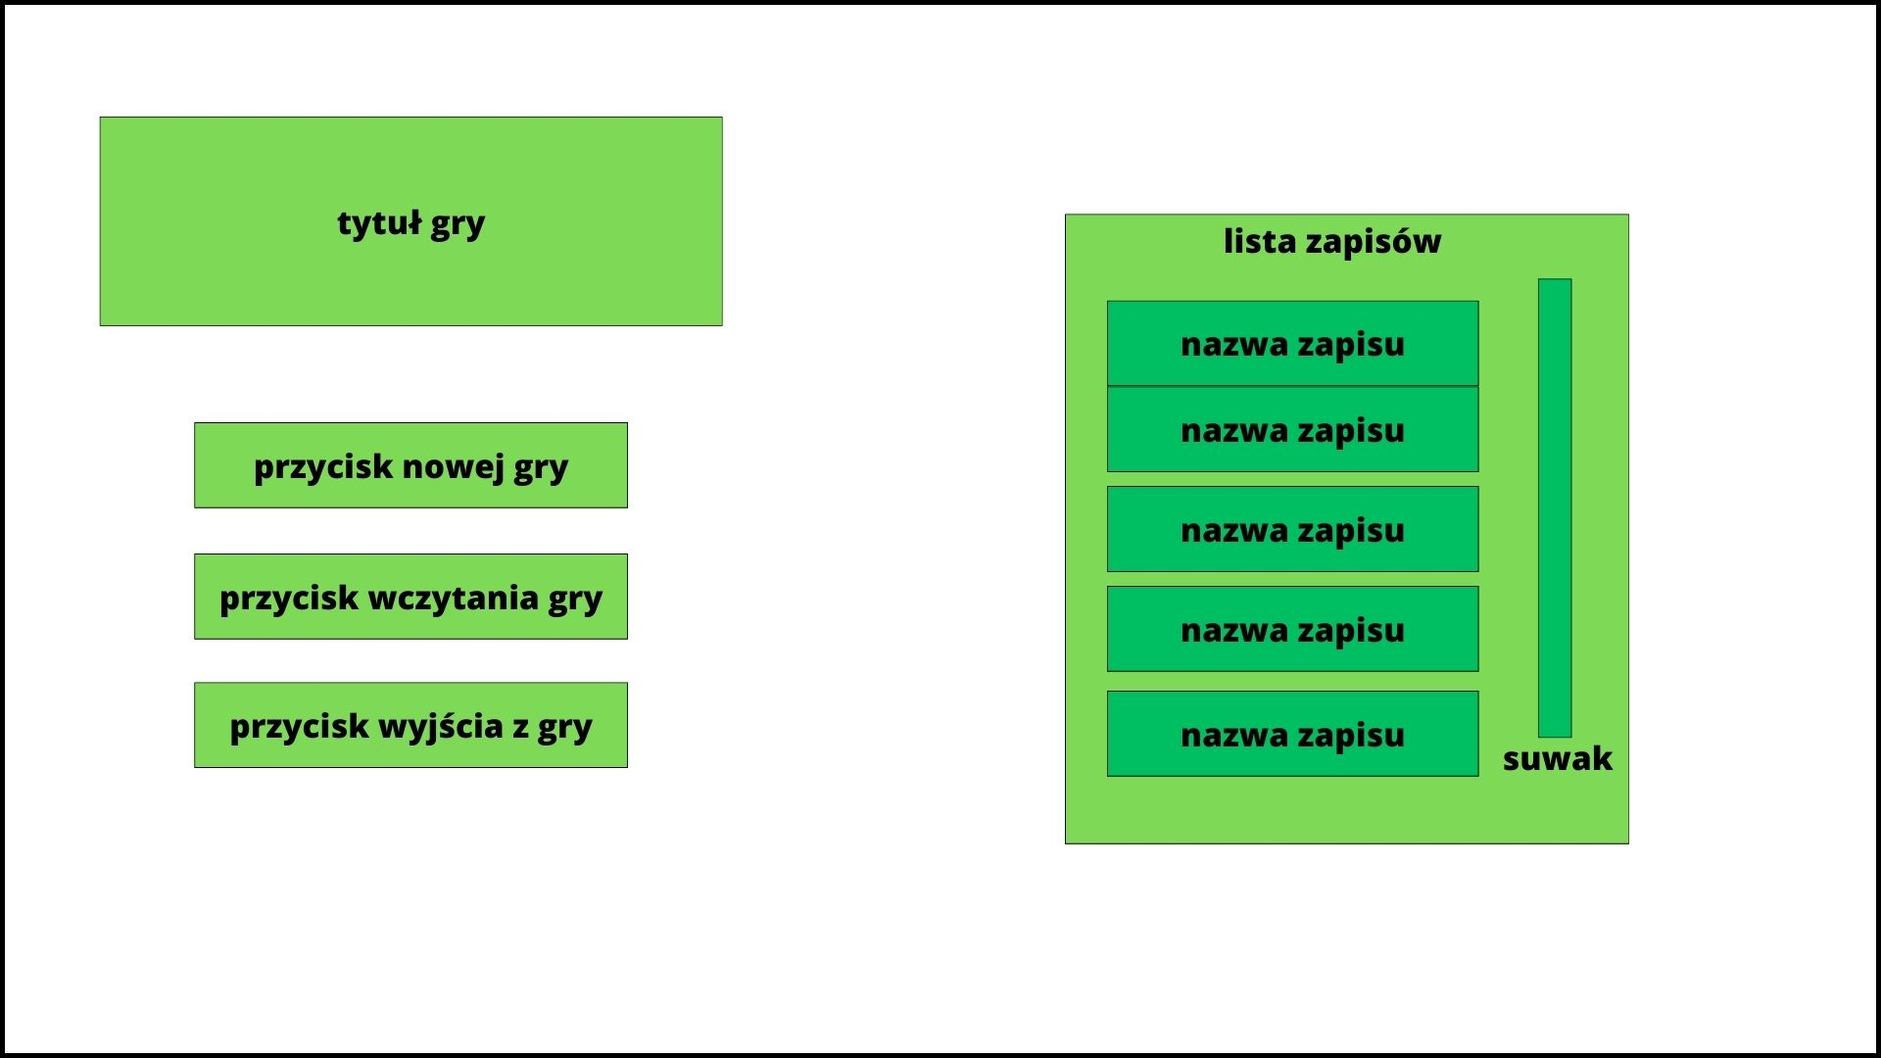
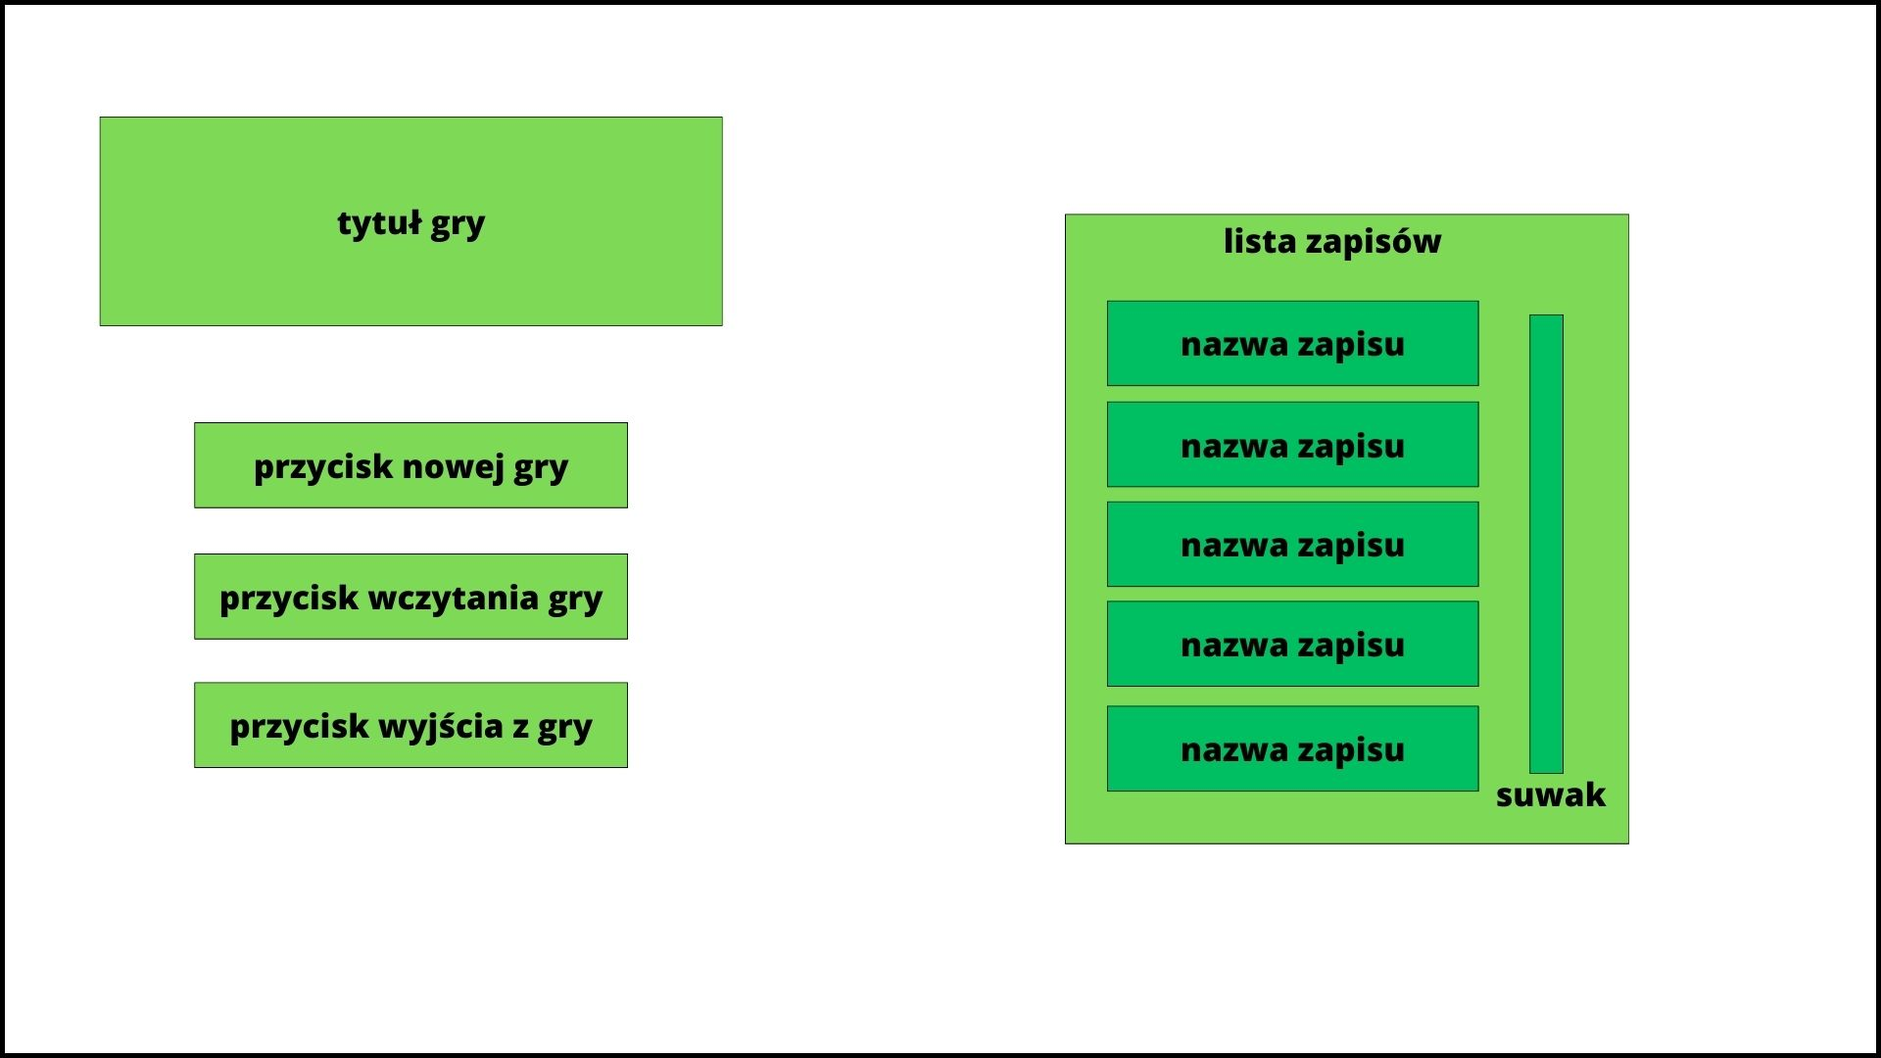
menu

Changed region(s): [[0.5625, 0.2444, 0.875, 0.7639]]

diff --git a/docs/chapters/projekt/ui_proj.tex b/docs/chapters/projekt/ui_proj.tex
@@ -1,6 +1,6 @@
 \section{Interfejs użytkownika (Zofia Sosińska)}\label{chap:ui}
 Projekt interfejsu użytkownika przewiduje tryb podstawowy z zawsze widocznymi elementami oraz dynamicznie pojawiające okna, wywoływane za pomocą konkretnych klawiszy. 
- Zadaniem każdej składowej nich będzie odzwierciedlenie pewnego skrawka aktualnego stanu wiedzy granej postaci z naciskiem na najpotrzebniejsze w danej chwili informacje. Przewidziane są:
+ Zadaniem każdej składowej będzie odzwierciedlenie pewnego skrawka aktualnego stanu wiedzy granej postaci z naciskiem na najpotrzebniejsze w danej chwili informacje. Przewidziane są:
  \begin{itemize}
     \item menu stawiania budynków; 
     \item menu wydawania komend;
@@ -14,15 +14,15 @@ Projekt interfejsu użytkownika przewiduje tryb podstawowy z zawsze widocznymi e
 Interfejs podstawowy przewiduje funkcje, takie jak pokazanie:
 \begin{itemize}
     \item aktualnego czasu w grze, aby stworzyć iluzję upływającego czasu w świecie gry; 
-    \item surowców i funduszy, aby nie był obarczony kalkulacjami przy każdym zakupie lub przypływie zasobów
+    \item surowców i funduszy, aby użytkownik nie był obarczony kalkulacjami przy każdym zakupie lub przypływie zasobów;
     \item kompasu, aby ułatwić nawigację;
     \item stan zdrowia gracza, aby zasygnalizować mu, czy przypadkiem nie rozsądniejsze będzie wycofanie się z potyczki;
     \item etap, na którym są przypisane graczowi zadania, aby przypomnieć mu, że na takowe się zgodził.
 \end{itemize}
-Inspiracją dla górnego paska z informacjami jest ten użyty w grze Warcraft 3 (por.\ref{c:pasek_war3}). Prostota i surowość stylu będą współgrać z klimatem gry.
+Inspiracją dla górnego paska z informacjami jest ten użyty w grze Warcraft 3 (por. \ref{c:pasek_war3}). Prostota i surowość stylu będą współgrać z klimatem gry.
 
 W naszej grze skupimy się jednak na tym, aby interfejs użytkownika zabierał jak najmniej miejsca. Dlatego też projekt zakłada, że poszczególne obiekty nie będą ze sobą połączone, a jedynie “dryfować” w przestrzeni.
-Jako ważny element tej części UI zawarty zostanie kompas, wzorowany na tym z gry The Elder Scrolls V: Skyrim (por.\ref{chap:skrm}).
+Jako ważny element tej części UI zawarty zostanie kompas, wzorowany na tym z gry The Elder Scrolls V: Skyrim (por. \ref{chap:skrm}).
 \begin{figure}[htbp]
     \centering
     \includegraphics[width=0.9\textwidth]{images/ui/ui_proj_ogolne.jpg}
@@ -31,8 +31,9 @@ Jako ważny element tej części UI zawarty zostanie kompas, wzorowany na tym z 
 \end{figure}
  
 \subsection{Menu stawiania budynków}
- W menu stawiania budynków informacje wcześniej przedstawione zostaną na ekranie. Dodatkowo pokażą nam się dostępne do zbudowania budynki, a po wybraniu pojawią się przed nami. Po zatwierdzeniu budynek zostanie wybudowany.
-	Inspiracją do przedstawienia dostępnych budowli jest rozwiązanie gry Orcs must die! (por. \ref{chap:omd}).
+Menu stawiania budynków będzie obrazować wiedzę i spostrzeżenia głównej postaci przy budowaniu nowej budowli. Docelowym miejscem ukazania się informacji będzie 
+dół ekranu, aby interfejs nie zasłaniał użytkownikowi zbyt dużo przestrzeni. Graczowi ukaże się lista dostępnych budynków oraz odpowiednie komunikaty w wypadku, gdy 
+nie można będzie dokonać zakupu, czy postawienia. Inspiracją do przedstawienia tych informacji zostanie rozwiązanie gry Orcs must die! (por. \ref{chap:omd}).
 \begin{figure}[htbp]
     \centering
     \includegraphics[width=0.9\textwidth]{images/ui/ui_proj_budowanie.jpg}
@@ -41,8 +42,10 @@ Jako ważny element tej części UI zawarty zostanie kompas, wzorowany na tym z 
 \end{figure}
 
 \subsection{Menu wydawania komend}
-Po zdobyciu towarzyszów walki kluczowe jest udostępnienie mechaniki sterowania nimi. Będzie to zrealizowane za pomocą menu wydawania komend.
-Projekt przewiduje zrobić to za pomocą wyświtlenia listy dostępnych komend i klawiszy, po których naciśnięciu zostanie konkretna wybrana.
+Po zdobyciu towarzyszy walki kluczowe będzie udostępnienie mechaniki sterowania nimi. Zrealizowane to zostanie za pomocą menu wydawania komend.
+Projekt przewiduje wyświetlić listę dostępnych komend i klawiszy, po których naciśnięciu, konkretna opcja zostanie wybrana. 
+Źródłem pomysłu jest interfejs zaprojektowany w grze Mount\&Blade (por. \ref{chap:mb}).
+
 \begin{figure}[htbp]
     \centering
     \includegraphics[width=0.9\textwidth]{images/ui/ui_proj_walka.jpg}
@@ -51,7 +54,7 @@ Projekt przewiduje zrobić to za pomocą wyświtlenia listy dostępnych komend i
 
 \subsection{Menu zapisu}
 Aby umożliwić zapis gry przygotowane zostanie specjalne dla tego zadania menu, wyświetlane na środku ekranu. Najważniejszą informacją 
-wyświetlaną na nim będzie nazwa pliku, aby gracz mógł później go odnaleźć.
+umiejscowioną na nim będzie nazwa pliku, aby gracz mógł później go odnaleźć.
 \begin{figure}[htbp]
     \centering
     \includegraphics[width=0.9\textwidth]{images/ui/ui_proj_zapis.jpg}
@@ -59,7 +62,11 @@ wyświetlaną na nim będzie nazwa pliku, aby gracz mógł później go odnaleź
 \end{figure}
 
 \subsection{Informacja o możliwej interakcji}
-W programie przewidziane są postacie i przedmioty interaktywne. Aby 
+W programie przewidziane są postacie i przedmioty interaktywne. Aby zasygnalizowć mu zaistniałą możliwość podjęcia pewnej akcji, 
+gra powinna mu wyświetlić stosowny komunikat. Wybranie wysoce widocznego miejsca będzie istotne, ponieważ grafika zniknie,
+jak tylko interakcja przestanie być możliwa. Tudzież kluczowe będzie wybranie takiej lokalizacji, aby komunikat zwrócił uwagę gracza nawet, 
+jeśli wyświetlony będzie tylko przez krótką chwilę. Za najwłaściwsze umiejscowienie wybrano środek górnej części ekranu, zaraz
+ pod bazowym interfejsem.
     \begin{figure}[htbp]
     \centering
     \includegraphics[width=0.9\textwidth]{images/ui/ui_prooj_interakcja.jpg}
@@ -67,7 +74,10 @@ W programie przewidziane są postacie i przedmioty interaktywne. Aby
 \end{figure}
 
 \subsection{Dziennik z zadaniami}
-
+Projektanci systemu zakładają, że niektóre postacie interaktywne będą mogły zlecić graczowi zadanie. Jeśli użytkownik zgodzi się na wiele,
+kłopotliwe może stać się zapamiętanie wszystkich szczegółów. Dlatego projekt systemu przewiduje udostępnienie mechaniki dziennika, w którym 
+pojawią się informacje o rozpoczętych zadaniach. Na przygotowanej grafice każde z nich będzie miało własne okno ze streszczeniem. Użytkownik 
+będzie mógł je przeglądać posługując się suwakiem.
 \begin{figure}[htbp]
     \centering
     \includegraphics[width=0.9\textwidth]{images/ui/ui_proj_dziennik_zadan.jpg}
@@ -75,9 +85,11 @@ W programie przewidziane są postacie i przedmioty interaktywne. Aby
 \end{figure}
 
 \subsection{Ekran końca gry}
-
+Gracz, po wykonaniu pewnych kroków, może doprowadzić grę do stanu końcowego. W takim wypadku przewidziane jest wyraźne tego zasygnalizowanie przez program.
+Przewiduje się zaprojektowanie specjalnego ekranu końca gry. W tym celu użytkownikowi zostanie wyświetlona klarowna informacja o aktualnym stanie rzeczy oraz instrukcja,
+co zrobić dalej. Dodatkowo, aby wzmocnić przekaz, cały ekran zostanie ściemniony.
 \begin{figure}[htbp]
     \centering
     \includegraphics[width=0.9\textwidth]{images/ui/ui_prooj_koniec_gry.jpg}
-    \caption{Projekt menu zapisu.}\label{fig:end_sc}
+    \caption{Projekt ekranu końca gry.}\label{fig:end_sc}
 \end{figure}

diff --git a/docs/chapters/implementacja/ui_imp.tex b/docs/chapters/implementacja/ui_imp.tex
@@ -1,7 +1,7 @@
 \section{Interfejs Użytkownika (Zofia Sosińska)}\label{chap:ui_imp}
 Interfejs użytkownika, jako uporządkowany i przejrzysty obraz wiedzy i możliwych opcji granej postaci odciąża użytkownika
 aplikacji, zdejmując z niego przymus pamiętania dokładnie każdej pojawiającej się informacji. Umililiśmy i uprościliśmy 
-rozgrywkę, przedstawiając suche dane w postaci przyjemnych dla oka obrazów, wyszczególniając najważniejsze informacje.
+rozgrywkę, przedstawiając suche dane w postaci przyjemnych dla oka obrazów, wyszczególniając to, co jest najważniejsze.
 
 Tak jak przewidywano, UI udostępnia interfes podstawowy z zawsze widocznymi elementami oraz dynamicznie pojawiające okna, wywoływane za pomocą konkretnych klawiszy.
 Wszystkie łączy surowy i prosty przewodni motyw graficzny, wykorzystujący także różnorodne obrazy dla urozmaicenia. Przy implementacji ważne także było, aby UI zabierał
@@ -11,10 +11,10 @@ jak najmniej miejsca, jednocześnie podając jak najwięcej przydatnych informac
 Interfejs podstawowy towarzyszy graczowi podczas całej rozgrywki. Skupia się on w górnej części ekranu. Jego zadaniem jest pomoc 
 użytkownikowi w ogólnym odnalezieniu się w świecie. W tym celu są mu ukazane następujące informacje:
 \begin{itemize}
-    \item godzina w grze;
+    \item aktualny czasS w grze;
     \item położenie gracza względem stron świata oraz wrogów ukazane na kompasie;
     \item stan surowców i funduszy;
-    \item stan zdrowia gracza, aby zasygnalizować mu;
+    \item stan zdrowia gracza;
     \item etap, na którym są przypisane graczowi zadania.
 \end{itemize}
 
@@ -22,29 +22,29 @@ użytkownikowi w ogólnym odnalezieniu się w świecie. W tym celu są mu ukazan
     \centering
     \includegraphics[width=0.9\textwidth]{images/ui/naszpasek.png}
     \caption{Implementacja paska z najważniejszymi informacjami o stanie gry: aktualnym czasie, posiadanych surowcach 
-    i funduszach, położeniu i otoczeniu gracza oraz o możliwości rozpoczęciu konwersacji z inną postacią.
-    }\label{fig:compass}
+    i funduszach, położeniu i otoczeniu gracza, zdrowiu postaci oraz ikona sygnalizująca, czy użytkownik ma do wykonania jakieś zadanie.
+    }\label{fig:naszpasek}
 \end{figure}
 
 W tych statycznie umiejscowionych elementach interfejsu dynamicznie zmienia się ich treść. Na zegarze czas zmienia się w ustalony sposób,
 dodając minutę w grze co 5 sekund upływające w realnym świecie. Na kompasie umiejscowienie zmieniają symbole stron świata i wskaźniki przeciwników,
-zależnie od ich pozycji, położenia gracza i strony, w którą patrzy. Fundusze rosną po wykonaniu zadania i otrzymaniu zapłaty oraz maleją, gdy opłacam
-najemników, czy płacimy za budowle. Liczba posiadanych surowców i zwiększa się, po zebraniu ich z ziemi, za to zmniejsza, gdy za ich pomocą budujemy budynek.  
+zależnie od ich pozycji, położenia gracza i strony, w którą główna posatć patrzy. Fundusze rosną po wykonaniu zadania i otrzymaniu zapłaty oraz maleją, gdy opłacamy
+najemników, czy płacimy za budowle. Liczba posiadanych surowców zwiększa się, po zebraniu ich z ziemi, za to zmniejsza, gdy za ich pomocą budujemy budynek.  
 Pasek zdrowia zmienia swoją treść, gdy dostaniemy obrażenia, jednocześnie ukazując początkową, maksymalną wartość. Ikona zadania do wykonania ukazuje symbol 
 czerwonego wykrzyknika, gdy gracz ma jakieś aktywne, nieskończone zadanie, co ukazano na rysunku \ref{fig:wyq}.
 \begin{figure}[htbp]
     \centering
     \includegraphics[width=0.5\textwidth]{images/ui/wykrzyknik_quest.png}
-    \caption{Implementacja ikony zadania do wykonania
+    \caption{Implementacja ikony zadania do wykonania, gdy użytkownik ma do wykonania jakieś zadanie.
     }\label{fig:wyq}
 \end{figure}
 
 \subsection{Menu stawiania budynków}
-Typowa mechanika gier typu RTS, czyli budowanie budynków ma specjalnie przygotowany interfejs, wyświetlany po wciśnięciu klawisza "B". 
+Typowa mechanika gier typu RTS, czyli budowanie budynków, ma specjalnie przygotowany interfejs, wyświetlany po wciśnięciu klawisza "B". 
 Ulokowany on został w dolnej części ekranu. Najważniejszym elementem menu stawiania budynków jest lista dostępnych budowli. Widnieją tam 
-obrazy ukazujące każdą z nich, a gracz ma wgląd w ich szczegóły poprzez zmianę aktywnej prawą i lewą strzałką. Wtedy wokół niej pokażą się także informacje dotyczące jej kupna,
+obrazy ukazujące każdą z nich, a gracz ma wgląd w ich szczegóły poprzez zmianę aktywnej prawą i lewą strzałką. Wtedy wokół niej pokazują się także informacje dotyczące jej kupna,
 a po lewej stronie ekranu - informacja o ewentualnym nieprawidłowym umiejscowieniu. W wypadku, gdy zakup jest niemożliwy z powodu niewystarczającej liczby 
-surowców, pojawi się stosowny komunikat. Wychodzi się z menu za pomocą klawisza "Escape".
+surowców, pojawi się stosowny komunikat. Menu zamyka się za pomocą klawisza "Escape".
 \begin{figure}[htbp]
     \centering
     \includegraphics[width=0.9\textwidth]{images/ui/opis_ekementow_budowanie.png}
@@ -54,7 +54,7 @@ surowców, pojawi się stosowny komunikat. Wychodzi się z menu za pomocą klawi
 \end{figure}
 
 \subsection{Menu wydawania komend}
-Gra umożliwia graczowi wykupienie usług najemników, jeśli dysponuje odpowiednimi funduszami. Gdy ma on już ich pod swoim dowództwem, może im rozkazywać za pomocą 
+Gra umożliwia graczowi wykupienie usług najemników, jeśli dysponuje odpowiednimi funduszami. Gdy są oni już pod dowództwem użytkownika, może on im rozkazywać za pomocą 
 menu wydawania komend. Po naciśnięciu klawisza "Q" pokazuje się lista dostępnych grup podwładnych, podzielonych według ich specjalizacji. Po wybraniu jednej z nich 
 wylistowane zostaną możliwe do rozkazania czynności. W obu przypadkach gracz ma także możliwość anulowania. 
 \begin{figure}[htbp]
@@ -91,7 +91,7 @@ jednak nie są tylko ludzie, ale i surowce, które można zbierać. Jeśli możl
 \subsection{Dziennik z zadaniami}
 Niektóre postacie interaktywne mogą zlecić głównemu bohaterowi zadanie. Jeśli gracz się zgodzi, notatka o nim zostaje zapisana w dzienniku. Można do niego zajrzeć
 wciskając klawisz "J". Graczowi ukaże się tytuł sygnalizyjący główny cel zadania, streszczenie najważniejszych informacji oraz porada dotycząca mechanik gry np. 
-"Wciśnij jakiś klawisz, żeby stało się coś". To, że zadanienie zostało jeszcze wykonane sygnalizuje czerwony wykrzyknik w przwym, górnym rogu notatki. Gracz może 
+"Wciśnij jakiś klawisz, żeby stało się coś". To, że zadanienie nie zostało jeszcze wykonane sygnalizuje czerwony wykrzyknik w prawym, górnym rogu notatki. Gracz może 
 zamknąć dziennik poprzez ponowne naciśnięcie klawisza "J".
 \begin{figure}[htbp]
     \centering

diff --git a/docs/chapters/projekt/main_menu_proj.tex b/docs/chapters/projekt/main_menu_proj.tex
@@ -1,25 +1,21 @@
 \section{Menu główne (Zofia Sosińska)}\label{chap:menu_main}
-Przed startem właściwej gry, użytkownikowi ukazuje się menu główne. Pełni ono funkcję reprezentatywną, więc ważne jest, aby współgrało ono z głównym programem.
-Styl okna jest prosty i surowy, stawiając na skalę szarości przy doborze kolorów. Nawiązuje on do stylizacji interfejsu użytkownika występującego 
-w później włączonym programie. Sprawia to, że użytkownik jeszcze przed zanurzeniem się w świat gry, ma jego przedsmak.
-
-Zgodnie z projektem menu główne udostępnia trzy kluczowe funkcjonalności:
+Reprezentantem całej gry jest menu główne, gdyż to ono pokazuje się użytkownikowi jako piewrsze. Jego zadaniem będzie oddanie klimatu programu,
+ umożliwienie rozpoczęcia rozgrywki oraz zamknięcie aplikacji.
+Projekt zakłada, że menu główne udostępni kluczowe funkcjonalności za pomocą przycisków:
 \begin{itemize}
-    \item rozpoczęcie nowej gry;
-    \item wczytanie zapisanej gry;
-    \item wyjście z programu.
+    \item rozpoczęcia nowej gry;
+    \item wczytania zapisanej gry;
+    \item wyjścia z programu.
 \end{itemize}
 
-Przycisk nowej gry przenosi użytkownika do momentu startowego programu. Progres gry jest równy zeru, a wszystkie zadania dopiero czekają na wykonanie.
+Przycisk wcztytania gry będzie musiał pozwolić na wybranie pliku zapisu. W tym celu przewiduje się wyświetlenie listy
+z możliwością przewijania treści za pomocą suwaka. Jej elementami będą przyciski z nazwą zapisu, których nasiśnięcie przeniesie 
+użytkownika do konkretnego stanu gry.
 
-Po kliknięciu przycisku odczytu, pojawia się lista zapisów, które w przeszłości użytkownik zdecydował się permamentnie przechować w pamięci urządzenia, na którym
-włączony został program. Użytkownik może ją przeglądać, ruszając suwakiem po prawej stronie. Po naciśnięciu jednego z przycisków, zostaje przeniesiony 
-do świata gry o stanie takim, jaki został wczytany z pliku.
-
-Ostatni przycisk udostępnia funkcjonalność wyjścia z gry. Po jego naciśnięciu, użytkownik całkowicie wyłącza program.
+Ważne też będzie przytoczenie tytułu gry, aby potwierdzić użytkownikowi, że włączył dobrą aplikację.
 \begin{figure}[htbp]
     \centering
-    \includegraphics[width=0.9\textwidth]{images/ui/main_menu.png}
-    \caption{Implementacja menu głównego.
+    \includegraphics[width=0.9\textwidth]{images/ui/ui_prooj_menu.jpg}
+    \caption{Projekt menu głównego.
     }\label{fig:compass}
 \end{figure}

diff --git a/docs/chapters/implementacja/mount_blade.tex b/docs/chapters/implementacja/mount_blade.tex
@@ -1,0 +1,12 @@
+\section{Sterowanie jednostkami w grze Mount\&Blade (Zofia Sosińska)}\label{chap:mb}
+
+Mount\&Blade jest to gra komputerowa z gatunku cRPG (komputerowa gra fabularna, ang. computer role-playing game) z elementami strategicznymi, stworzona przez turecką firmę TaleWorlds Entertainment i wydana przez Paradox Interactive. W otwartym świecie fikcyjnej krainy Calradia, stylizowanej na czasy średniowieczne, gracz ma pełną dowolność stylu rozgrywki. W jego mocy jest zarówno zbieranie armii i dążenie do zostania królem, jak i zostanie wasalem jednego z władców. Za pomocą dialogów i walk z postaciami gracz buduje unikatową historię.
+Jedną z wartych uwagi mechanik, zaimplementowaną w grze Mount\&Blade, jest sterowanie jednostkami służącymi granemu charakterowi. Gracz bezpośrednio kieruje jedynie główną postacią. Podczas walki reszcie może wydawać rozkazy. Poprzez cyfry 0-4 wybiera grupę, do której się odnosi np. łuczników. Następnie przez klawisze F1-F11 wydaje konkretny rozkaz np. odwrót. Sztuczna inteligencja postaci zajmuje się już samym wykonaniem czynności. Gracz nie martwi się, czy jednostki znajdą optymalną drogę, będą celować w przeciwników, czy z nimi walczyć.
+
+
+\begin{figure}[h!tbp]
+    \centering
+    \includegraphics[width=0.9\textwidth]{images/ui/commandsMountBla.png}
+    \caption{Wykaz dostępnych rozkazów z gry Mount\&Blade.}\label{fig:MountnBlade}
+    \label{fig:mnb}
+\end{figure}

diff --git a/docs/chapters/implementacja/zapis.tex b/docs/chapters/implementacja/zapis.tex
@@ -3,7 +3,7 @@
 Gracz w dowolnym momencie rozgrywki może przerwać grę i dokonać zapisu. Wykonuje to
 za pomocą skrótu klawiszowego F8. Powoduje to zapisanie na dysk danych wszystkich obiektów posiadających
 komponent "Saveable". Strukturę serlializowanych danych reprezentuje plik proto \ref{proto}.
-\lstinputlisting[caption=Plik .proto reprezentujący strukturę zapisu stanu gry, label=proto]{../src/RTS-game/Assets/Resources/game_save.proto}
+\lstinputlisting[caption=Plik .proto reprezentujący strukturę zapisu stanu gry, label=proto]{images/game_save.proto}
 
 Powstały po zapisie plik jest przechowywany na dysku w lokalizacji zdefiniowanej przez stałą \verb|Environment.SpecialFolder.MyDocuments| w formie binarnej\ref{save}.
 W tym przypadku zapamiętywane są jedynie dane, które zmieniają się w trakcie rozgrywki, takie jak położenie gracza, przeciwników, itd. 

diff --git a/docs/chapters/implementacja/main_menu_imp.tex b/docs/chapters/implementacja/main_menu_imp.tex
@@ -1,7 +1,7 @@
 \section{Menu główne (Zofia Sosińska)}\label{chap:menu_main}
 Przed startem właściwej gry, użytkownikowi ukazuje się menu główne. Pełni ono funkcję reprezentatywną, więc ważne jest, aby współgrało ono z głównym programem.
 Styl okna jest prosty i surowy, stawiając na skalę szarości przy doborze kolorów. Nawiązuje on do stylizacji interfejsu użytkownika występującego 
-w później włączonym programie. Sprawia to, że użytkownik jeszcze przed zanurzeniem się w świat gry, ma jego przedsmak.
+w później włączonym programie. Sprawia to, że gracz jeszcze przed zanurzeniem się w świat gry, ma jego przedsmak.
 
 Zgodnie z projektem menu główne udostępnia trzy kluczowe funkcjonalności:
 \begin{itemize}

diff --git a/docs/main.tex b/docs/main.tex
@@ -86,6 +86,7 @@
 \input{chapters/projekt/analiza_i_specyfikacja_wymagan}
 \input{chapters/projekt/opis_swiata}
 \input{chapters/projekt/kontroler_postaci}
+\input{chapters/projekt/main_menu_proj}
 \input{chapters/projekt/ui_proj}
 \input{chapters/projekt/nawigacja}
 \input{chapters/projekt/mechanizm_budowania}
